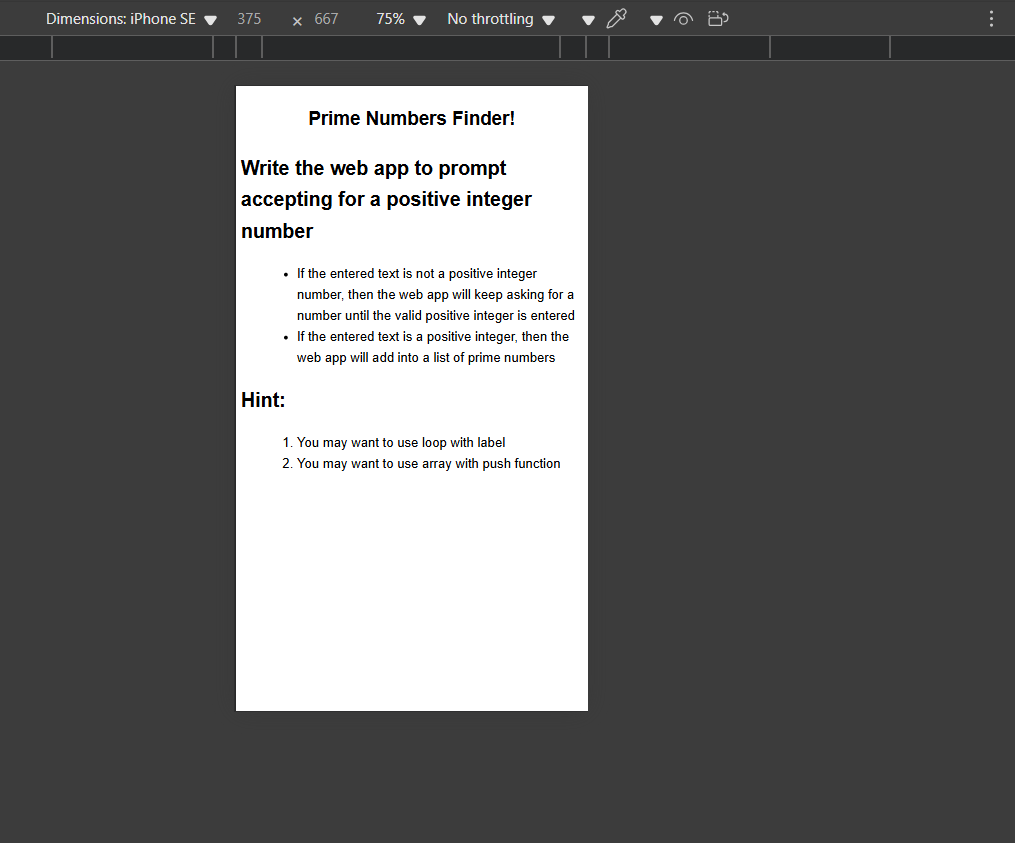
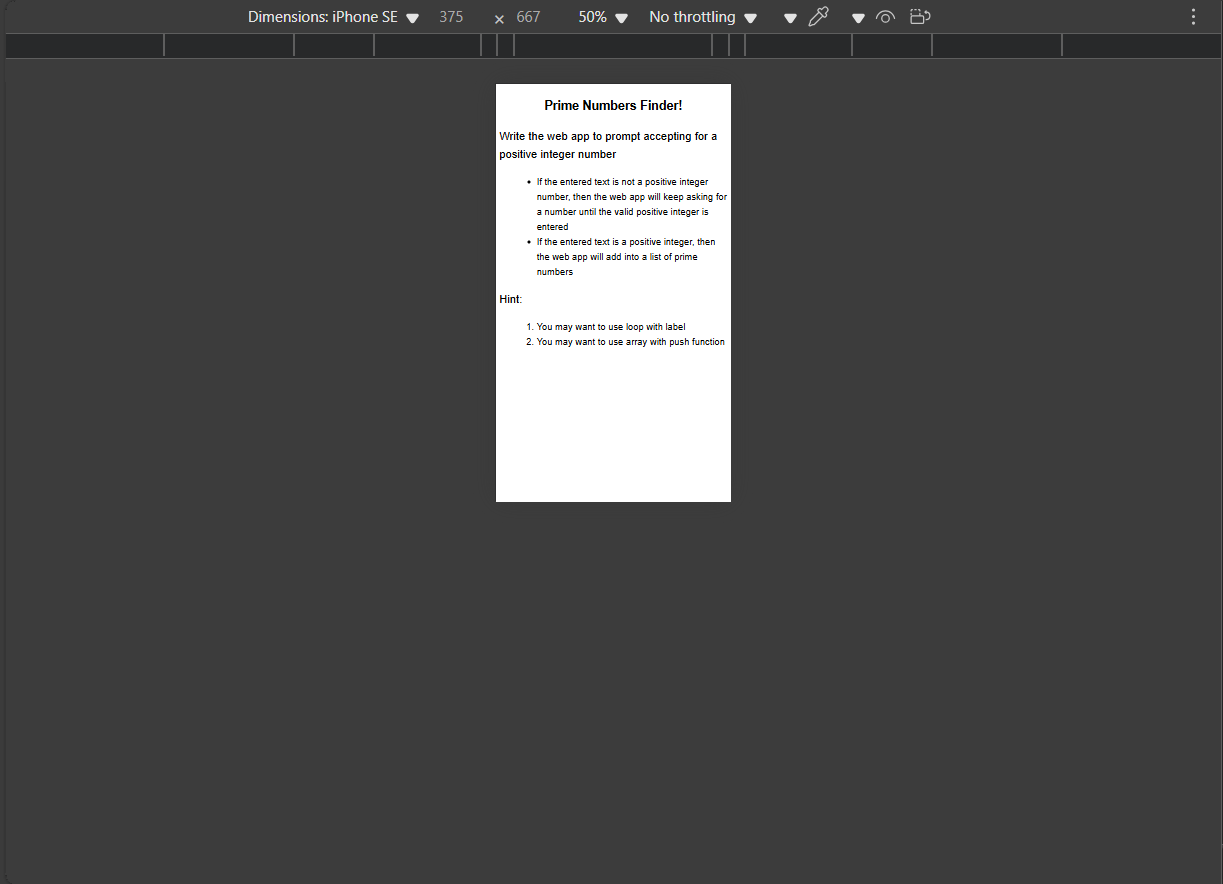
add

Changed region(s): [[0.0, 0.0, 1.0, 0.8636]]

diff --git a/lab5/problem2.html b/lab5/problem2.html
@@ -10,13 +10,13 @@
 <body style="display:none;">
   <div class="container">
     <h1>Statistics Calculator!</h1>
-    <h2>Write the web app to prompt accepting for positive integers until the user enters a negative integer</h2>
+    <p>Write the web app to prompt accepting for positive integers until the user enters a negative integer</p>
     <ul>
       <li>If the entered text is not a positive integer number, then the web app will keep asking for a number until the valid positive integer is entered</li>
       <li>If the entered text is a negative integer, then the web app will show the statistics (average, min, max) of all entered positive integers</li>
     </ul>
 
-    <h2>Note:</h2>
+    <p>Note:</p>
     <ol>
       <li>You need to implement functions to check whether an entered text is a positive integer or not and whether an entered text is a negative integer or not</li>
       <li>You need to implement functions to compute average, min, and max of a list of integers</li>

diff --git a/lab5/problem1.html b/lab5/problem1.html
@@ -9,12 +9,12 @@
 </head>
 <body style="display: none;"> 
     <h1>Prime Numbers Finder!</h1>
-    <h2>Write the web app to prompt accepting for a positive integer number</h2>
+    <p>Write the web app to prompt accepting for a positive integer number</p>
     <ul>
         <li>If the entered text is not a positive integer number, then the web app will keep asking for a number until the valid positive integer is entered</li>
         <li>If the entered text is a positive integer, then the web app will add into a list of prime numbers</li>
     </ul>
-    <h2>Hint:</h2>
+    <p>Hint:</p>
     <ol>
         <li>You may want to use loop with label</li>
         <li>You may want to use array with push function</li>

diff --git a/lab5/lib/style.css b/lab5/lib/style.css
@@ -8,13 +8,16 @@ body {
 
 h1 {
     text-align: center;
-    margin-bottom: 20px;
 }
 
 ul, ol {
     margin-left: 20px;
+    font-size: 15px;
 }
-
+p{
+    font-size: 18px;
+    text-align: left;
+}
 @media (max-width: 600px) {
     body { font-size: 14px; padding: 5px; }
     h1 { font-size: 20px; }
